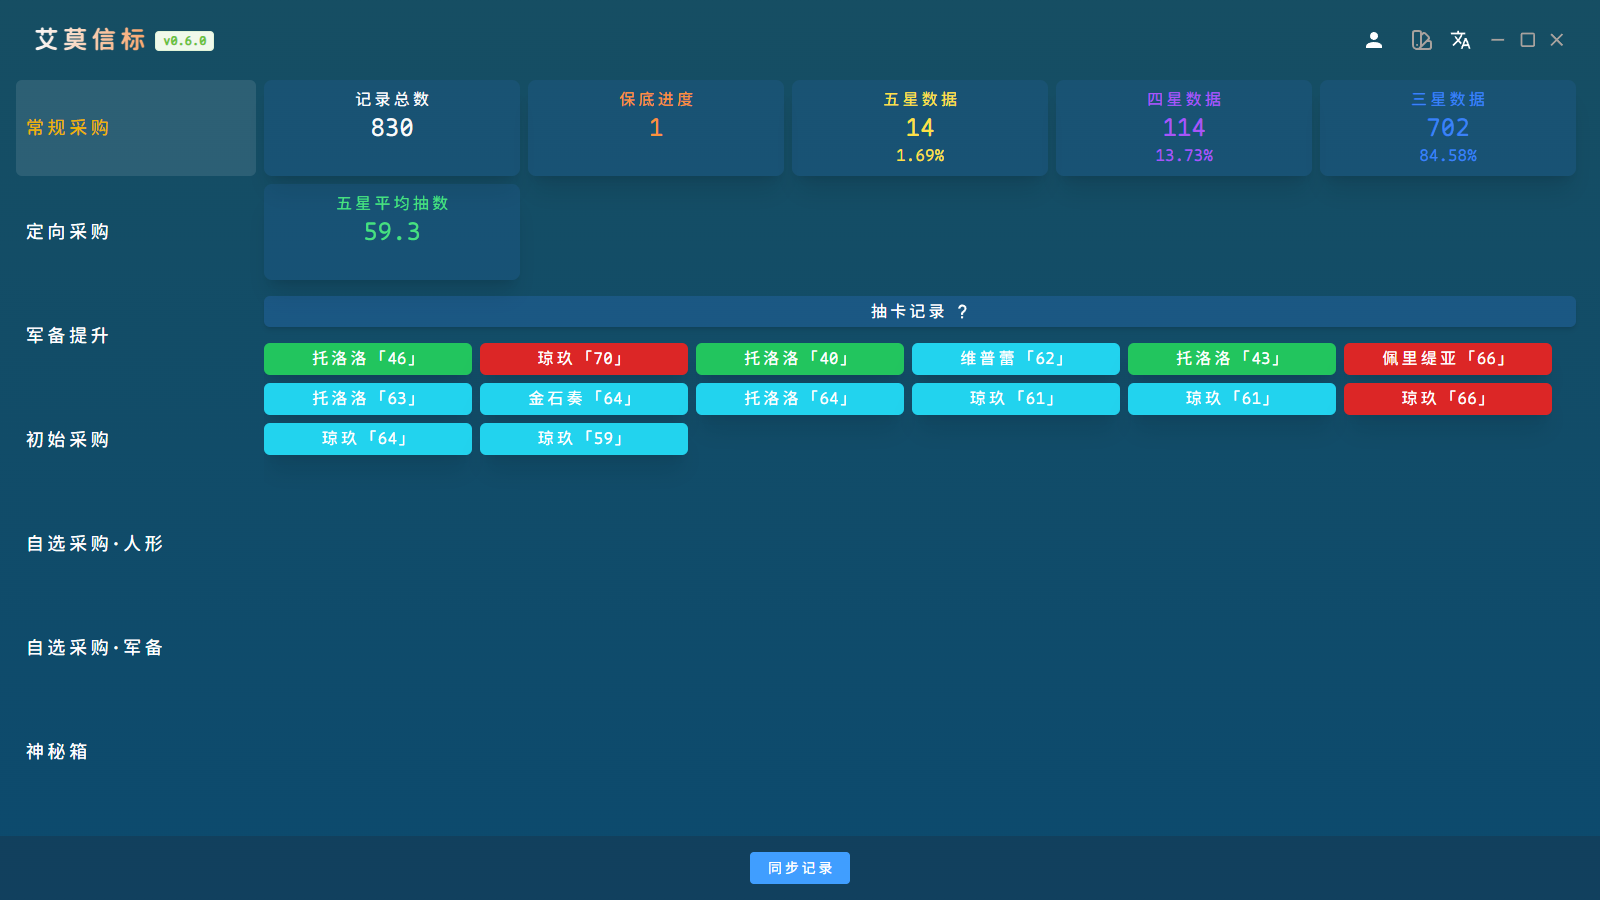
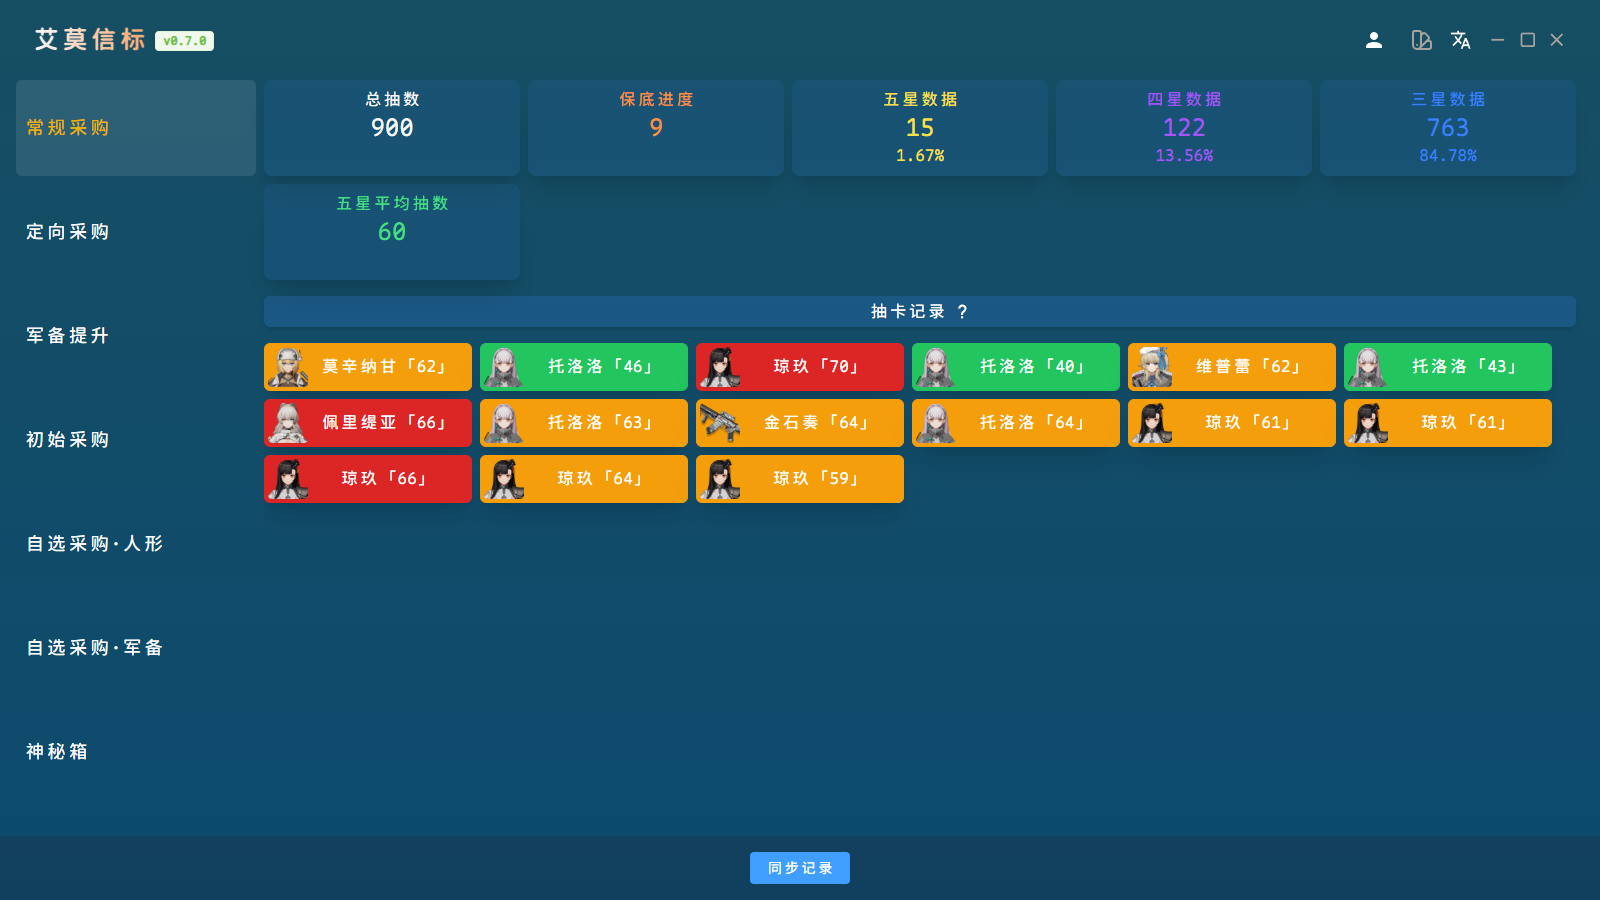
更新README

diff --git a/README.md b/README.md
@@ -20,24 +20,21 @@
 
 ## 项目介绍
 
-<p><a href="https://github.com/YizeNE/ElmoBeacon" rel="nofollow">ElmoBeacon</a> is a tool for storing and analyzing GFL2 gacha records.</p>
-<p>The project is compatible with DarkWinter server(China,North America) and Haoplay server(Global,Asia,Japan,Korea).</p>
-<p>This is an open source project and maintained by <a href="https://gf2.mcc.wiki" rel="nofollow">MccWiki</a> and the community.</p>
-<p>The program has implemented the basic features. UI will be optimized later.</p>
-<p>If you have any ideas for UI, feel free to PR!</p>
+<p><a href="https://github.com/YizeNE/ElmoBeacon" rel="nofollow">ElmoBeacon</a> 是一款用以存储和分析《少女前线2：追放》抽卡记录的工具，兼容暗冬服务器（中国大陆、北美）和好玩服务器（全球、亚洲、日本、韩国）。</p>
+<p>这是一个开源项目，由<a href="https://gf2.mcc.wiki" rel="nofollow">MccWiki</a> 和社区共同维护。如果您对该项目有任何想法，欢迎提交PR！</p>
 
 ## 项目需求
 
-- <a href="https://developer.microsoft.com/en-us/microsoft-edge/webview2" rel="nofollow">WebView2</a> (embedded)
-- GFL2 Client
-- Go 1.18+ (develop only)
-- <a href="https://wails.io/docs/gettingstarted/installation/" rel="nofollow">Wails</a> (develop only)
+- 少前2客户端
+- Fiddler
+- Go 1.18+ (仅开发)
+- Wails (仅开发)
 
 ## 使用教程
 
 1. 由于游戏日志不再存储用户凭证，因此需要使用抓包软件来获取[点此下载Fiddler](https://api.getfiddler.com/fc/latest)（默认情况下Fiddler只能抓取HTTP请求，因此还需要进行配置[参考](https://developer.aliyun.com/article/1342462)）
-1. 配置好Fiddler后确保Fiddler正在运行，然后在游戏内点击访问记录，此时Fiddler记录中会出现一条Host为`gf2-gacha-record-xxx`，URL为`/list?xxx`的记录，右键此条记录Save>Selected Sessions>as Text将该条记录保存至本地
-1. 打开本软件，点击同步记录后输入自己的UID并选择步骤2中保存至本地的记录即可开始获取抽卡记录（⚠进行该步骤时请关闭Fiddler以免报错，另外本地的记录具有时效性，请定期按步骤2重新获取）
+1. 配置好Fiddler后确保Fiddler正在运行，然后在游戏内点击访问记录，此时Fiddler记录中会出现一条Host为`gf2-gacha-record-xxx`，URL为`/list?xxx`的记录，右键此条记录**Save>Selected Sessions>as Text**将该条记录保存至本地
+1. 打开本软件，点击同步记录后输入自己的UID并选择步骤2中保存至本地的记录即可开始获取抽卡记录（**⚠进行该步骤时请关闭Fiddler以及其他代理软件以免发生意料之外的错误，此外本地的记录具有时效性，请定期按步骤2重新获取）**
 
 ## 本地开发
 
